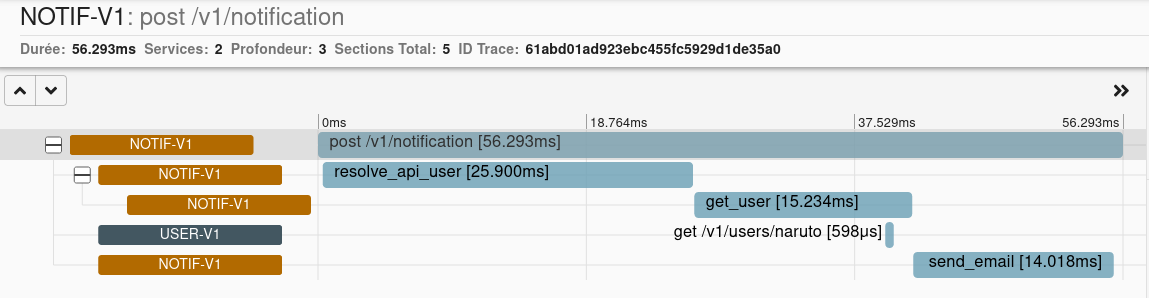
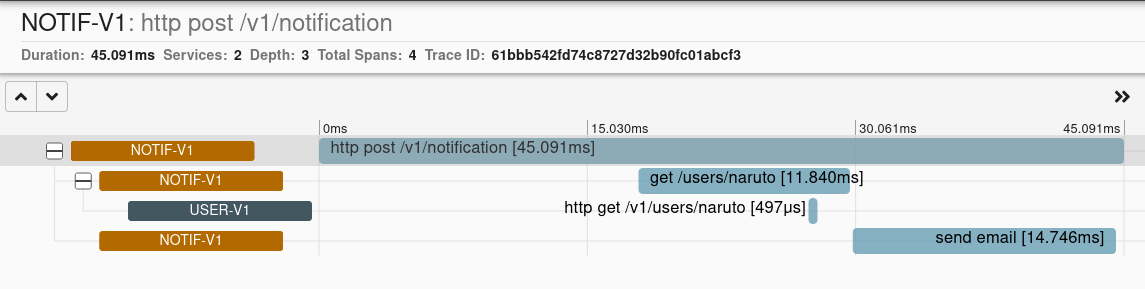
Update the documentation and examples

Changed region(s): [[0.0, 0.3737, 1.0, 0.9343], [0.0, 0.0, 1.0, 0.4048]]

diff --git a/examples/zipkin_tracing/notif/src/notif/entrypoint.py b/examples/zipkin_tracing/notif/src/notif/entrypoint.py
@@ -1,10 +1,9 @@
-import json
 from typing import cast
 
 import uvicorn
 from asgiref.typing import ASGI3Application
 from notif.views import app
-from starlette_zipkin import B3Headers, ZipkinConfig, ZipkinMiddleware
+from starlette_zipkin import ZipkinConfig, ZipkinMiddleware
 
 import blacksmith
 
@@ -14,11 +13,6 @@ if __name__ == "__main__":
         host="zipkin",
         port=9411,
         service_name="notif-v1",
-        sample_rate=1.0,
-        inject_response_headers=True,
-        force_new_trace=False,
-        json_encoder=json.dumps,
-        header_formatter=B3Headers,
     )
     app.add_middleware(ZipkinMiddleware, config=config)
     uvicorn.run(cast(ASGI3Application, app), host="0.0.0.0", port=8000)

diff --git a/examples/zipkin_tracing/notif/src/notif/views.py b/examples/zipkin_tracing/notif/src/notif/views.py
@@ -1,17 +1,14 @@
 import email as emaillib
 import smtplib
 from textwrap import dedent
-from typing import Dict, cast
 
-import aiozipkin
 import starlette_zipkin
-from aiozipkin.helpers import make_headers
-from notif.resources.user import User
+from blacksmith import ClientFactory, ConsulDiscovery
+from blacksmith.middleware.zipkin import ZipkinMiddleware
 from starlette.applications import Starlette
 from starlette.responses import JSONResponse
 
-from blacksmith import ClientFactory, ConsulDiscovery
-from blacksmith.middleware.zipkin import ZipkinMiddleware
+from notif.resources.user import User
 
 app = Starlette(debug=True)
 

diff --git a/examples/zipkin_tracing/user/src/user/views.py b/examples/zipkin_tracing/user/src/user/views.py
@@ -1,11 +1,21 @@
-from typing import cast
+import json
 
-import uvicorn
-from asgiref.typing import ASGI3Application
 from starlette.applications import Starlette
 from starlette.responses import JSONResponse
+from starlette_zipkin import B3Headers, ZipkinConfig, ZipkinMiddleware
 
 app = Starlette(debug=True)
+config = ZipkinConfig(
+    host="zipkin",
+    port=9411,
+    service_name="user-v1",
+    sample_rate=1.0,
+    inject_response_headers=True,
+    force_new_trace=False,
+    json_encoder=json.dumps,
+    header_formatter=B3Headers,
+)
+app.add_middleware(ZipkinMiddleware, config=config)
 
 USERS = {
     "naruto": {

diff --git a/examples/zipkin_tracing/user/src/user/entrypoint.py b/examples/zipkin_tracing/user/src/user/entrypoint.py
@@ -3,12 +3,6 @@ from typing import cast
 import uvicorn
 from asgiref.typing import ASGI3Application
 from user.views import app
-from user.zk_middleware import ZipkinMiddleware
 
 if __name__ == "__main__":
-    app.add_middleware(
-        ZipkinMiddleware,
-        service_name="user-v1",
-        endpoint="http://zipkin:9411/",
-    )
     uvicorn.run(cast(ASGI3Application, app), host="0.0.0.0", port=8000)

diff --git a/docs/source/user/http_middleware.rst b/docs/source/user/http_middleware.rst
@@ -3,7 +3,8 @@ HTTP Middlewares
 
 Blacksmith let permit to inject headers on every requests.
 
-Here is a dummy example.
+Here is a simple example where a header is injected, and may be updated
+during its lifetime.
 
 ::
 
@@ -14,58 +15,4 @@ Here is a dummy example.
    cli = ClientFactory(sd)
    cli.add_middleware(dummy_middleware)
 
-
-Create a middleware to trace metrics using zipkin
--------------------------------------------------
-
-The middleware is usefull to forward parameter in an http context.
-
-For example, using zipkin, some headers has to be passed to sub services,
-to achieve this, lets create a simple middleware that forward the headers.
-
-
-::
-
-   class BlacksmithMiddleware:
-      """
-      Middleware to inject a blacksmith client factory in the asgi scope.
-      
-      
-      The client is fowarding zipkin header to track api calls.
-      """
-
-      def __init__(
-         self,
-         app: ASGIApp,
-      ):
-         self.app = app
-         self.sd = ConsulDiscovery()
-         self.cli = ClientFactory(self.sd)
-         self.middleware = HTTPAddHeadersMiddleware(headers={})
-         self.cli.add_middleware(self.middleware)
-
-      async def __call__(self, scope: Scope, receive: Receive, send: Send) -> None:
-         if scope["type"] not in ["http"]:
-               await self.app(scope, receive, send)
-               return
-
-         # The trace is managed by another middleware.
-         trace = cast(Trace, scope.get("trace"))
-         if trace is not None:
-               self.middleware.headers=trace.http_headers
-         scope["blacksmith_client"] = self.cli
-         await self.app(scope, receive, send)
-
-
-Full example of the zipkin middleware
--------------------------------------
-
-You will find an example using prometheus in the examples directory:
-
-   https://github.com/mardiros/blacksmith/tree/master/examples/zipkin_tracing
-
-
-.. figure:: ../screenshots/zipkin.png
-
-   Example of querying the zipkin instance on http://zipkin.localhost/
-
+   dummy_middleware.headers["x-request-header"] = "bar"

diff --git a/docs/source/user/zipkin_middleware.rst b/docs/source/user/zipkin_middleware.rst
@@ -1,0 +1,36 @@
+Tracing using Zipkin Middleware
+===============================
+
+In microservices architecture, to troubleshoot problems, it is convenient
+to trace all sub requests and more using a tracer such as Zipkin or Jaeger.
+
+In blacksmith, the zipkin middleware can be added to trace all the sub requests.
+
+Example using starlette_zipkin:
+
+::
+
+   import starlette_zipkin
+
+   from blacksmith import ClientFactory, ConsulDiscovery
+   from blacksmith.middleware.zipkin import ZipkinMiddleware
+
+   sd = ConsulDiscovery()
+   cli = ClientFactory(sd)
+   cli.add_middleware(
+      ZipkinMiddleware(starlette_zipkin.get_root_span, starlette_zipkin.get_tracer)
+   )
+
+
+Full example of the zipkin middleware
+-------------------------------------
+
+You will find an example using prometheus in the examples directory:
+
+   https://github.com/mardiros/blacksmith/tree/master/examples/zipkin_tracing
+
+
+.. figure:: ../screenshots/zipkin.png
+
+   Example of querying the zipkin instance on http://zipkin.localhost/
+

diff --git a/docs/source/user/index.rst b/docs/source/user/index.rst
@@ -14,6 +14,7 @@ User manual of Blacksmith.
    service_discovery
    authorization
    monitor_metrics
+   zipkin_middleware
    http_middleware
    circuit_breaker_middleware
    generic_middleware
